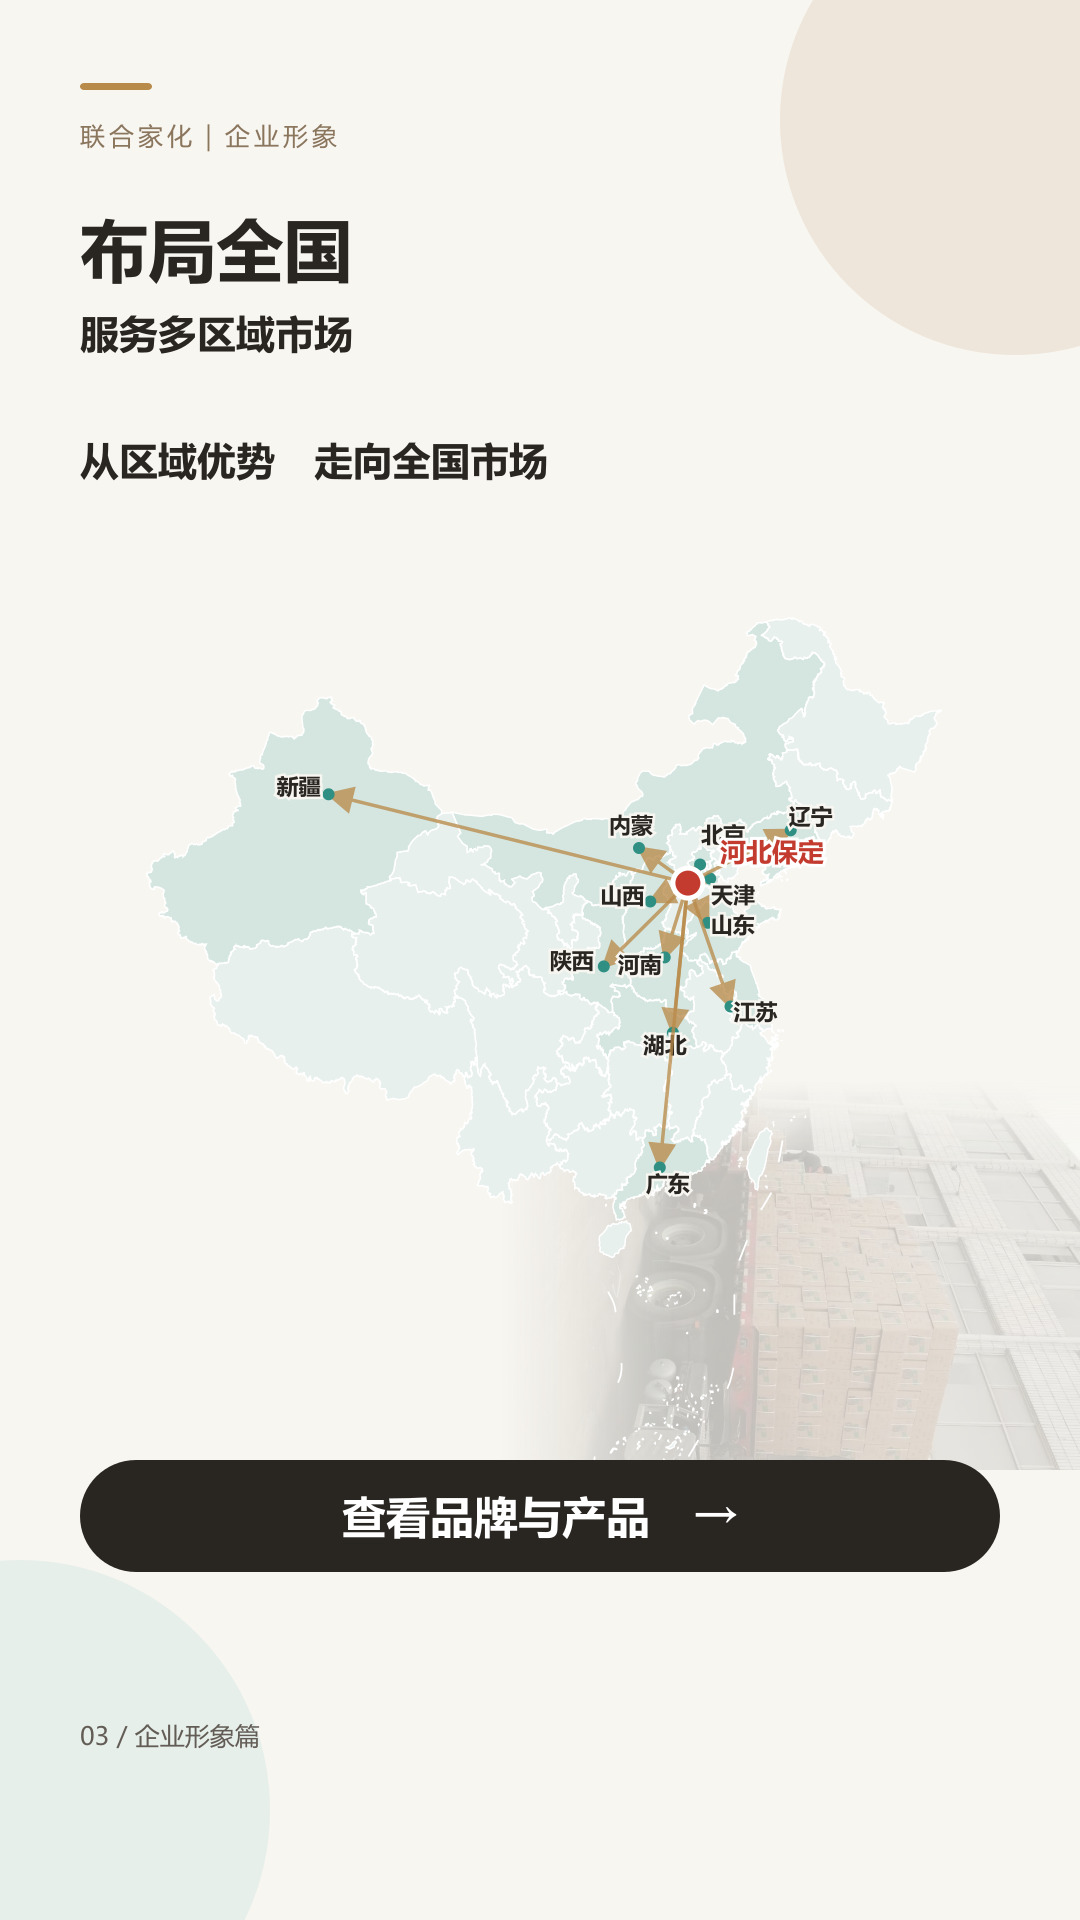
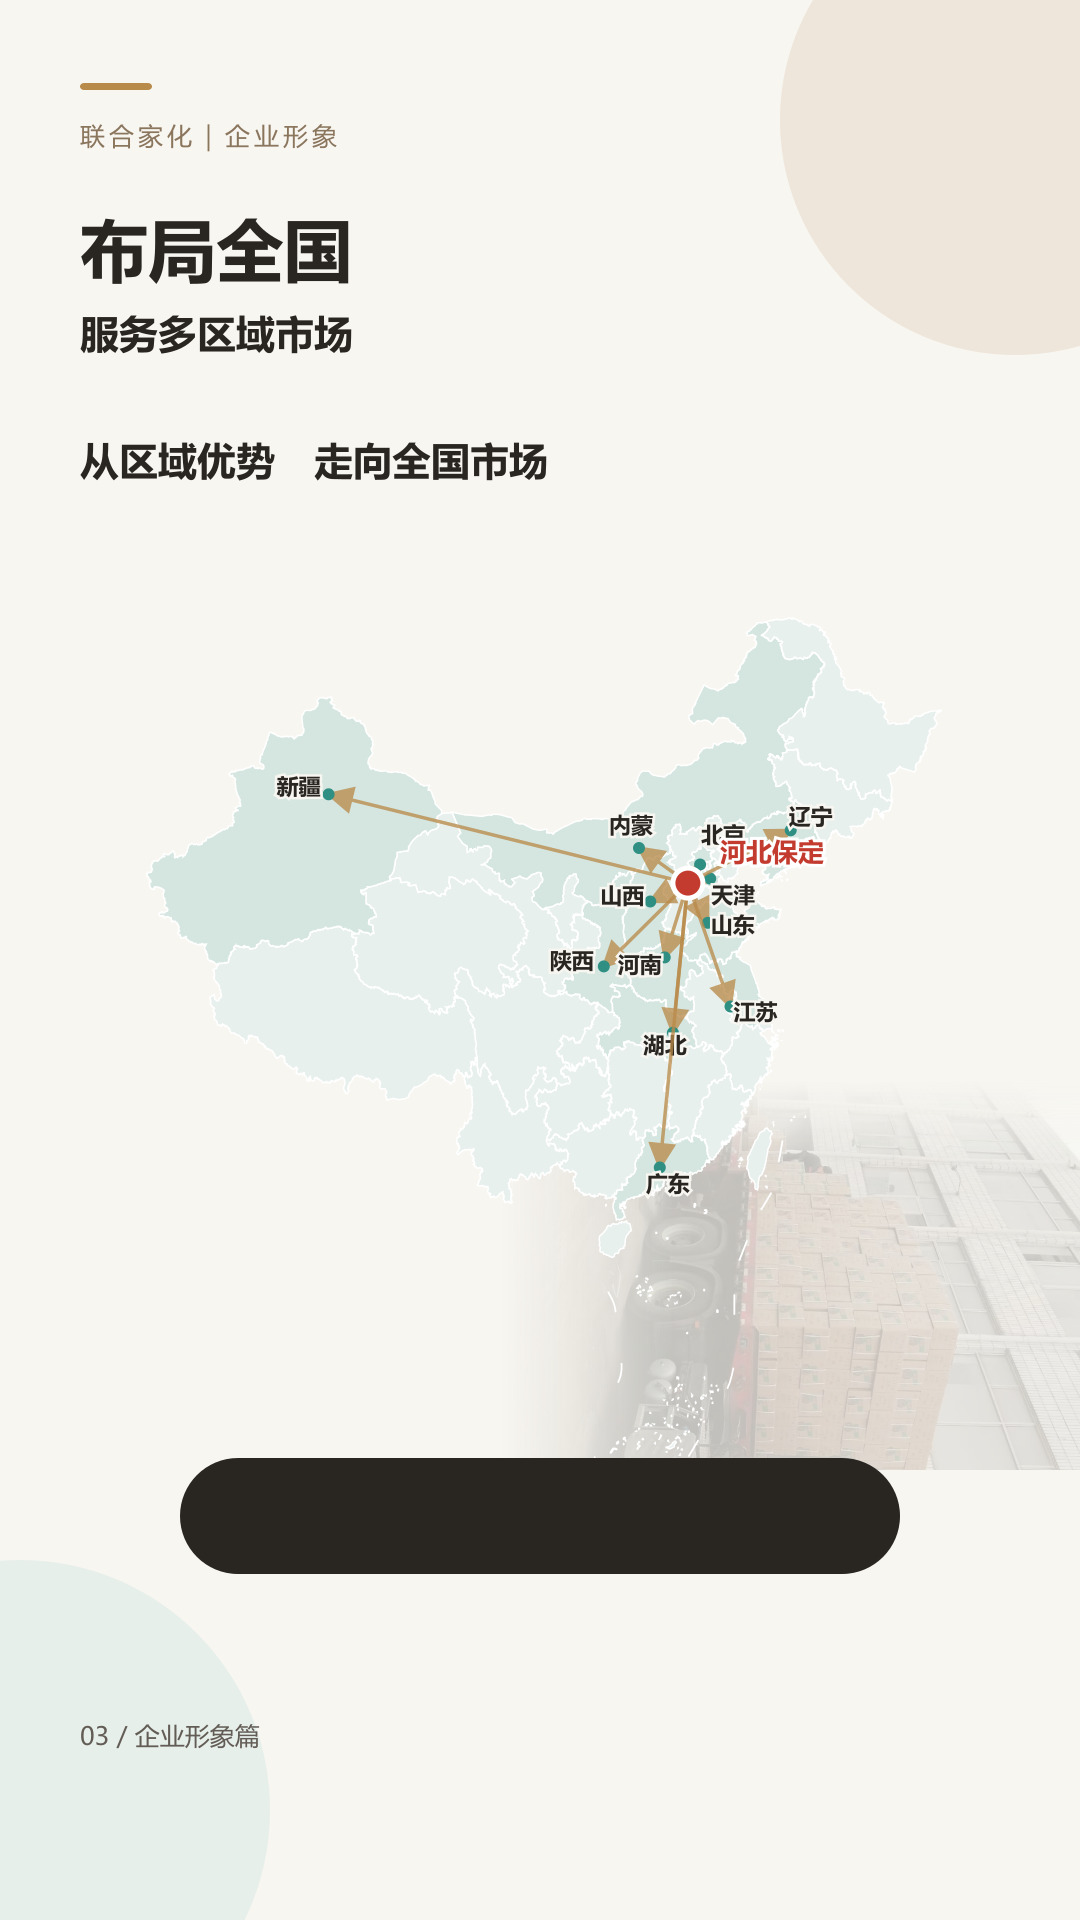
调整入口提示搜索按钮与产品放大说明

Changed region(s): [[0.7944, 0.75, 0.9472, 0.8438], [0.0611, 0.75, 0.1833, 0.8438], [0.3056, 0.7812, 0.6111, 0.8125]]

diff --git a/style.css b/style.css
@@ -1,4 +1,4 @@
 *{box-sizing:border-box}html,body{margin:0;height:100%;background:#e9e5df;color:#26231f;font-family:-apple-system,BlinkMacSystemFont,"Segoe UI","PingFang SC","Microsoft YaHei",sans-serif}button,input{font:inherit}.topbar{height:64px;padding:env(safe-area-inset-top) 12px 0;display:flex;align-items:center;gap:12px;background:#faf7f1;border-bottom:1px solid #ddd6cb;position:fixed;z-index:10;top:0;left:0;right:0}.heading{min-width:0;flex:1;text-align:center;display:flex;flex-direction:column}.heading strong{font-size:15px;white-space:nowrap;overflow:hidden;text-overflow:ellipsis}.heading span{font-size:11px;color:#777}.icon-btn,.bottomnav button,.drawer button{border:0;background:#fff;border-radius:10px;padding:10px 12px;color:#3b3732}.viewer{position:fixed;inset:64px 0 calc(62px + env(safe-area-inset-bottom));display:grid;place-items:center;overflow:hidden}.page{width:min(100%,calc((100dvh - 126px - env(safe-area-inset-bottom)) * .5625));aspect-ratio:9/16;margin:0;display:grid;place-items:center;position:relative}.page img{display:block;width:100%;height:100%;box-shadow:0 8px 30px #40382d26;opacity:0;transition:opacity .15s}.page img.ready{opacity:1}.hotspots{position:absolute;inset:0;z-index:3}.hotspot{position:absolute;border:0;background:transparent;border-radius:10px;cursor:pointer}.hotspot:focus-visible{outline:3px solid #1877d2;outline-offset:-3px}#loading{position:absolute;color:#777}.tap-zone{position:absolute;z-index:2;top:0;bottom:0;width:10%;border:0;background:transparent}.tap-zone.left{left:0}.tap-zone.right{right:0}.bottomnav{height:calc(62px + env(safe-area-inset-bottom));padding:8px 20px env(safe-area-inset-bottom);position:fixed;bottom:0;left:0;right:0;display:flex;align-items:center;justify-content:space-between;background:#faf7f1;border-top:1px solid #ddd6cb;z-index:10}.bottomnav button{min-width:88px}.bottomnav button:disabled{opacity:.35}.bottomnav span{font-size:13px;color:#666}.drawer{position:fixed;z-index:30;left:0;top:0;bottom:0;width:min(88vw,390px);background:#f7f3ec;transform:translateX(-102%);transition:transform .2s;box-shadow:10px 0 40px #0003;overflow:auto;padding-bottom:30px}.drawer[aria-hidden=false]{transform:translateX(0)}.drawer-head{position:sticky;top:0;background:#f7f3ecef;backdrop-filter:blur(8px);display:flex;align-items:center;justify-content:space-between;padding:18px;border-bottom:1px solid #ddd6cb}.search{display:block;padding:14px 18px 5px}.search span{font-size:12px;color:#777;display:block;margin-bottom:6px}.search input{width:100%;border:1px solid #d5cec3;border-radius:10px;padding:12px;background:#fff}.toc{padding:0 12px}.toc h2{font-size:12px;color:#8a6e51;margin:17px 7px 7px}.toc button{width:100%;display:flex;justify-content:space-between;text-align:left;margin:4px 0;background:transparent}.toc button.active{background:#e5ddd0}.toc small{color:#888}.shade{position:fixed;z-index:20;inset:0;background:#0007}@media(min-width:900px){.viewer{inset:64px 390px 62px 0}.drawer{transform:none;width:390px;left:auto;right:0;box-shadow:none;border-left:1px solid #d8d1c6}.drawer-head button{display:none}.shade{display:none}.topbar,.bottomnav{right:390px}.page{width:min(calc(100vw - 390px),calc((100dvh - 126px) * .5625))}}button{touch-action:manipulation}.icon-btn,.drawer button{min-height:44px}.hotspot{touch-action:manipulation}
 .hotspot .pulse-link{position:absolute;right:5%;bottom:8%;color:#d7352a;font-weight:800;font-size:clamp(13px,3.8vw,21px);text-shadow:0 1px 5px #fff,0 0 10px #fff;animation:entryPulse 1.05s ease-in-out infinite;pointer-events:none}.hotspot .pulse-arrow{display:inline-block;margin-left:.2em;font-size:1.25em}@keyframes entryPulse{0%,100%{transform:scale(1);opacity:.72}50%{transform:scale(1.1);opacity:1}}@media(prefers-reduced-motion:reduce){.hotspot .pulse-link{animation:none;opacity:1}}
 
-.product-hotspot{border:2px solid transparent}.product-hotspot:active{background:#fff2}.lightbox{position:fixed;z-index:100;inset:0;background:#17130fee;display:flex;align-items:center;justify-content:center;padding:64px 18px 72px}.lightbox[hidden]{display:none}.lightbox img{display:block;max-width:96vw;max-height:82vh;object-fit:contain;background:#fff;border-radius:14px;box-shadow:0 14px 50px #0008}.lightbox button{position:absolute;right:18px;top:18px;width:48px;height:48px;border:0;border-radius:50%;background:#fff;color:#26231f;font-size:34px;line-height:1}.lightbox div{position:absolute;bottom:24px;color:#fff;font-size:15px;font-weight:700}.modal-open{overflow:hidden}.cover-pulse,.market-pulse{position:absolute;z-index:4;border:0;background:transparent;color:#fff;font-weight:800;text-align:center;pointer-events:auto;animation:entryPulse 1.05s ease-in-out infinite;text-shadow:0 2px 5px #0006}.cover-pulse{left:7.4%;top:87.6%;width:85.2%;height:6.5%;font-size:clamp(20px,6vw,34px)}.market-pulse{left:7.4%;top:77.2%;width:85.2%;font-size:clamp(19px,5.7vw,32px);pointer-events:none}
+.product-hotspot{border:2px solid transparent}.product-hotspot:active{background:#fff2}.lightbox{position:fixed;z-index:100;inset:0;background:#17130fee;display:flex;align-items:center;justify-content:center;padding:64px 18px 72px}.lightbox[hidden]{display:none}.lightbox img{display:block;max-width:96vw;max-height:82vh;object-fit:contain;background:#fff;border-radius:14px;box-shadow:0 14px 50px #0008}.lightbox button{position:absolute;right:18px;top:18px;width:48px;height:48px;border:0;border-radius:50%;background:#fff;color:#26231f;font-size:34px;line-height:1}.lightbox div{position:absolute;bottom:24px;color:#fff;font-size:15px;font-weight:700}.modal-open{overflow:hidden}.cover-pulse,.market-pulse{position:absolute;z-index:4;border:0;background:transparent;color:#fff;font-weight:800;text-align:center;pointer-events:auto;animation:entryPulse 1.05s ease-in-out infinite;text-shadow:0 2px 5px #0006}.cover-pulse{left:16.7%;top:87.7%;width:66.6%;height:6%;font-size:clamp(20px,6vw,34px)}.market-pulse{left:16.7%;top:77.1%;width:66.6%;height:6%;font-size:clamp(19px,5.7vw,32px);pointer-events:none}.choose-product-tip{position:absolute;right:8%;bottom:7.5%;display:flex;flex-direction:column;align-items:center;color:#9A4635;text-shadow:0 1px 5px #fff}.choose-product-tip span{font-size:clamp(38px,11vw,62px);line-height:1}.choose-product-tip strong{font-size:clamp(20px,6vw,34px);white-space:nowrap}.product-zoom-tip{position:absolute;z-index:6;left:16.7%;top:83.1%;width:66.6%;height:6%;border-radius:999px;background:#9A4635;color:#fff;display:flex;align-items:center;justify-content:center;font-size:clamp(20px,6vw,34px);font-weight:800;box-shadow:0 5px 18px #5f211f35}

diff --git a/index.html b/index.html
@@ -11,7 +11,7 @@
 </head>
 <body>
   <header class="topbar">
-    <button id="menuBtn" class="icon-btn" aria-label="打开目录">目录</button>
+    <button id="menuBtn" class="icon-btn" aria-label="打开搜索">搜索</button>
     <div class="heading"><strong id="pageTitle">联合家化产品电子书</strong><span id="pageMeta">专题6</span></div>
     <button id="homeBtn" class="icon-btn" aria-label="返回主目录">主目录</button>
   </header>
@@ -98,10 +98,12 @@ function sectionLinks(ids) { return ids.map((id,n)=>[7.4+(n%2)*44.3,21.1+Math.fl
 function renderHotspots(p) {
   hotspots.innerHTML=''; let items=links[p.id]||[]; if(items.length && typeof items[0]==='string') items=sectionLinks(items);
   if(p.id==='COVER') items=[];
-  items.forEach(([x,y,w,h,target,label])=>{const b=document.createElement('button');b.className='hotspot';b.style.cssText=`left:${x}%;top:${y}%;width:${w}%;height:${h}%`;b.setAttribute('aria-label',label);if(label&&label.includes('进入')){const t=document.createElement('span');t.className='pulse-link';t.innerHTML='进入 <span class="pulse-arrow">→</span>';b.append(t)}b.onclick=()=>{if(target==='@tel'){location.href='tel:03122161615';return}if(target.startsWith('@asset:')){window.open('assets/'+encodeURIComponent(target.slice(7)),'_blank');return}show(byId[target])};hotspots.append(b);});
+  items.forEach(([x,y,w,h,target,label])=>{const b=document.createElement('button');b.className='hotspot';b.style.cssText=`left:${x}%;top:${y}%;width:${w}%;height:${h}%`;b.setAttribute('aria-label',label);if(p.id!=='SEC-JZ'&&label&&label.includes('进入')){const t=document.createElement('span');t.className='pulse-link';t.innerHTML='进入 <span class="pulse-arrow">→</span>';b.append(t)}b.onclick=()=>{if(target==='@tel'){location.href='tel:03122161615';return}if(target.startsWith('@asset:')){window.open('assets/'+encodeURIComponent(target.slice(7)),'_blank');return}show(byId[target])};hotspots.append(b);});
   const ids=productImages[p.id];if(ids){const pos=productLayout[ids.length];ids.forEach((n,i)=>{const [x,y,w,h]=pos[i];const b=document.createElement('button');b.className='hotspot product-hotspot';b.style.cssText=`left:${x}%;top:${y}%;width:${w}%;height:${h}%`;b.setAttribute('aria-label','点击放大产品图片 IMG_'+n);b.onclick=e=>{e.stopPropagation();openLightbox('assets/products/IMG_'+n+'.jpg','真实产品图片 IMG_'+n)};hotspots.append(b)})}
-  if(p.id==='COVER'){const b=document.createElement('button');b.className='cover-pulse';b.textContent='进入全书主目录　→';b.onclick=()=>show(byId['DIR-001']);hotspots.append(b)}
-  if(p.id==='ENT-MARKET'){const b=document.createElement('span');b.className='market-pulse';b.textContent='查看品牌与产品　→';hotspots.append(b)}
+  if(p.id==='COVER'){const b=document.createElement('button');b.className='cover-pulse';b.textContent='进入全书主目录';b.onclick=()=>show(byId['DIR-001']);hotspots.append(b)}
+  if(p.id==='ENT-MARKET'){const b=document.createElement('span');b.className='market-pulse';b.textContent='查看品牌与产品';hotspots.append(b)}
+  if(p.id==='SEC-JZ'){const t=document.createElement('div');t.className='choose-product-tip';t.innerHTML='<span>☝</span><strong>点击方框选择产品</strong>';hotspots.append(t)}
+  if(ids){const t=document.createElement('div');t.className='product-zoom-tip';t.textContent='点击图片可放大';hotspots.append(t)}
 }
 function show(i, push=true) {
   current=Math.max(0,Math.min(pages.length-1,i)); const p=pages[current]; loading.hidden=false; image.classList.remove('ready');

diff --git a/sw.js b/sw.js
@@ -1,4 +1,4 @@
-const C='topic6-v1-product-zoom-p01-p07';const CORE=['./','./index.html','./style.css','./manifest.webmanifest','./icon-192.png'];self.addEventListener('install',e=>e.waitUntil(caches.open(C).then(c=>c.addAll(CORE)).then(()=>self.skipWaiting())));self.addEventListener('activate',e=>e.waitUntil(caches.keys().then(keys=>Promise.all(keys.filter(k=>k!==C).map(k=>caches.delete(k)))).then(()=>self.clients.claim())));self.addEventListener('fetch',e=>e.respondWith(caches.match(e.request).then(r=>r||fetch(e.request).then(x=>{const y=x.clone();caches.open(C).then(c=>c.put(e.request,y));return x;}))));
+const C='topic6-v1-prompts-round2';const CORE=['./','./index.html','./style.css','./manifest.webmanifest','./icon-192.png'];self.addEventListener('install',e=>e.waitUntil(caches.open(C).then(c=>c.addAll(CORE)).then(()=>self.skipWaiting())));self.addEventListener('activate',e=>e.waitUntil(caches.keys().then(keys=>Promise.all(keys.filter(k=>k!==C).map(k=>caches.delete(k)))).then(()=>self.clients.claim())));self.addEventListener('fetch',e=>e.respondWith(caches.match(e.request).then(r=>r||fetch(e.request).then(x=>{const y=x.clone();caches.open(C).then(c=>c.put(e.request,y));return x;}))));
 
 
 
